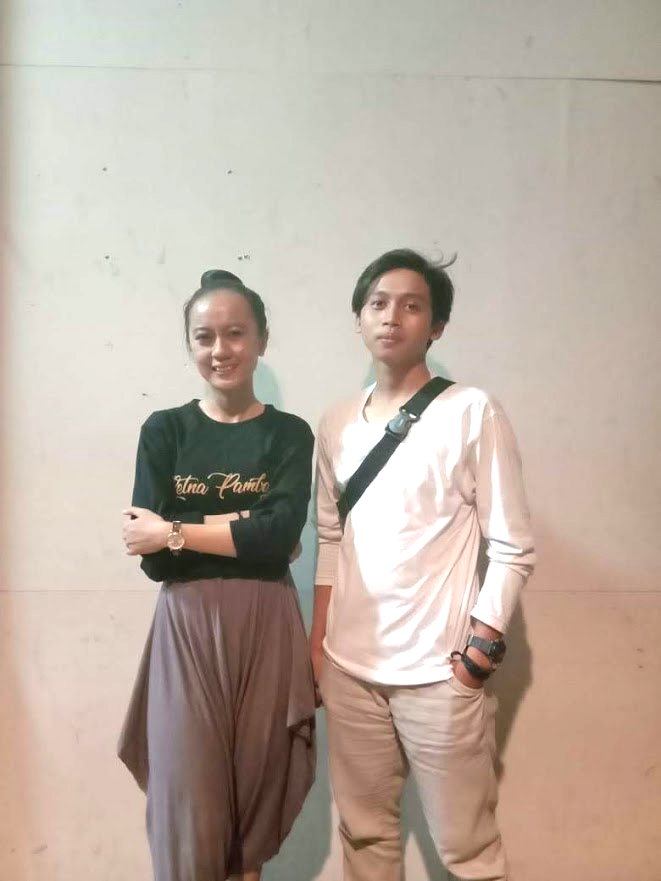
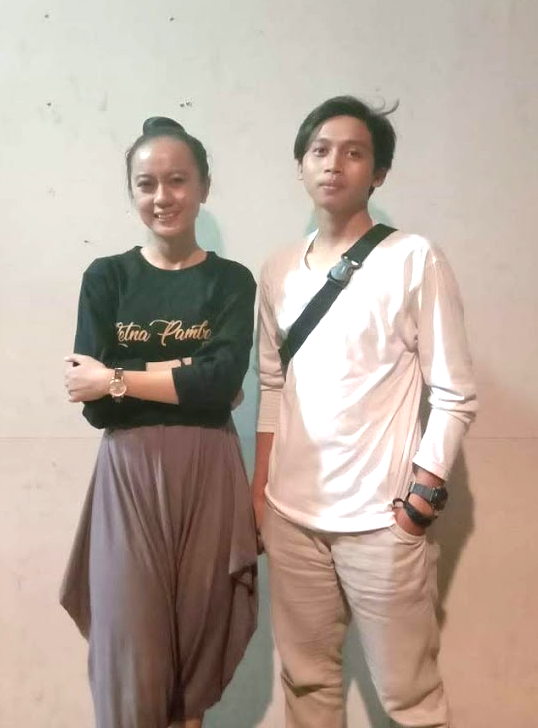
add foto

diff --git a/index copy.html b/index copy.html
@@ -1,0 +1,61 @@
+<!doctype html>
+<html lang="en">
+
+<head>
+  <!-- Required meta tags -->
+  <meta charset="utf-8">
+  <meta name="viewport" content="width=device-width, initial-scale=1, shrink-to-fit=no">
+
+  <!-- Bootstrap CSS -->
+  <link rel="stylesheet" href="https://stackpath.bootstrapcdn.com/bootstrap/4.4.1/css/bootstrap.min.css"
+    integrity="sha384-Vkoo8x4CGsO3+Hhxv8T/Q5PaXtkKtu6ug5TOeNV6gBiFeWPGFN9MuhOf23Q9Ifjh" crossorigin="anonymous">
+  <link href="https://fonts.googleapis.com/css2?family=Quicksand:wght@300;500;700&display=swap" rel="stylesheet">
+  <link rel="stylesheet" href="https://cdnjs.cloudflare.com/ajax/libs/animate.css/4.0.0/animate.min.css" />
+  <link rel="stylesheet" href="style.css">
+  <title>Happy Birthday Ulfa</title>
+  <link rel="shortcut icon" href="favicon.png">
+</head>
+
+<body>
+
+  <div class="bg">
+
+    <div>
+      <img src="Assets/foto.png" class="fotoku rounded-lg shadow">
+    </div>
+    <!-- Copyright -->
+
+
+
+    <footer class="page-footer font-small blue fixed-bottom">
+
+      <!-- Copyright -->
+
+
+
+      <div class="footer-copyright text-center py-3 text-secondary"><small> from Winarto <i
+            class="fas fa-gift text-danger animate__pulse animate__animated"></i> to
+          <a href="" class="text-decoration-none text-secondary">Ulfa</a></small>
+      </div>
+      <!-- Copyright -->
+
+    </footer>
+    <!-- Footer -->
+  </div>
+
+
+  <!-- Optional JavaScript -->
+  <!-- jQuery first, then Popper.js, then Bootstrap JS -->
+  <script src="https://code.jquery.com/jquery-3.4.1.slim.min.js"
+    integrity="sha384-J6qa4849blE2+poT4WnyKhv5vZF5SrPo0iEjwBvKU7imGFAV0wwj1yYfoRSJoZ+n" crossorigin="anonymous">
+  </script>
+  <script src="https://stackpath.bootstrapcdn.com/bootstrap/4.4.1/js/bootstrap.min.js"
+    integrity="sha384-wfSDF2E50Y2D1uUdj0O3uMBJnjuUD4Ih7YwaYd1iqfktj0Uod8GCExl3Og8ifwB6" crossorigin="anonymous">
+  </script>
+  <script src="https://kit.fontawesome.com/61e5120832.js" crossorigin="anonymous"></script>
+  <script src="https://cdn.jsdelivr.net/npm/typeit@7.0.4/dist/typeit.min.js"></script>
+
+  <script src="script.js"></script>
+</body>
+
+</html>

diff --git a/script.js b/script.js
@@ -88,7 +88,7 @@ const _slideTiga = function () {
 function getRandomPosition(element) {
   var x = document.body.offsetHeight - element.clientHeight;
   var y = document.body.offsetWidth - element.clientWidth;
-  var randomX = Math.floor(Math.random() * 500);
+  var randomX = Math.floor(Math.random() * 350);
   var randomY = Math.floor(Math.random() * y);
   return [randomX, randomY];
 };
@@ -159,7 +159,7 @@ new TypeIt("#teks1", {
 }).go();
 
 new TypeIt("#teks2", {
-  strings: ["Haii ulfaa!!", "Happy Birthday ya..", " ", "Alhamdulillah udah 23 tahun, semoga di umur yang sekarang kamu bisa jadi pribadi yang lebih baik lagi, lebih rajin, lebih sholehah, dan lebih berbakti.", "Maaf ya aku gabisa kasih surprise yang bagus. Cuma ini yang baru bisa aku kasih ke kamu, aku harap kamu suka ya :)", "Sekali lagi, Selamat Ulang Tahun ya. Semoga pelatihannya dilancarkan, semua impian, keinginan, dan harapan kamu bisa tercapai dan semoga bisa cepat ketemu, Aamiin."],
+   strings: ["Haii ulfaa!!", "Happy Birthday ya..", " ", "Alhamdulillah udah 23 tahun, semoga di umur yang sekarang kamu bisa jadi pribadi yang lebih baik lagi, lebih rajin, lebih sholehah, dan lebih berbakti.", "Maaf ya aku gabisa kasih surprise yang bagus. Cuma ini yang baru bisa aku kasih ke kamu, aku harap kamu suka ya :)", "Sekali lagi, Selamat Ulang Tahun ya. Semoga pelatihannya dilancarkan, semua impian, keinginan, dan harapan kamu bisa tercapai dan semoga bisa cepat ketemu, Aamiin."],
   startDelay: 2000,
   speed: 75,
   waitUntilVisible: true

diff --git a/index.html b/index.html
@@ -73,8 +73,8 @@
     </div>
     <p id="trims" class="text-muted d-none mt-2"></p>
 
-    <div id="slideEnam" class="d-none animate__animated animate__fadeIn animate__slower">
-      <img src="Assets/foto.png" class="foto rounded-lg shadow">
+    <div id="slideEnam" class="d-none animate__animated animate__fadeIn animate__slower img-center">
+      <img src="Assets/foto.png" class="fotoku rounded-lg shadow">
     </div>
 
     <p id="tap" class="d-none animate__animated animate__pulse text-muted animate__slow animate__repeat-3">Ketuk untuk
@@ -85,11 +85,10 @@
       <!-- Copyright -->
 
 
-      <br><br><br><br><br><br><br><br><br><br><br>
-      <div class="footer-copyright text-center py-3 text-secondary"><small> from Winarto
-          <i class="fas fa-gift text-danger animate__animated animate__bounce animate__repeat-3 hati"></i> to
-          <a target="_blank" class="text-decoration-none text-danger" id="credit"></a> Ulfa</small>
 
+      <div class="footer-copyright text-center py-3 text-secondary"><small> from Winarto <i
+            class="fas fa-gift text-danger animate__pulse animate__animated"></i> to
+          <a href="" class="text-decoration-none text-secondary">Ulfa</a></small>
       </div>
       <!-- Copyright -->
 

diff --git a/style.css b/style.css
@@ -1,7 +1,6 @@
-
 body,
 html {
-  height: 100%;  
+  height: 100%;
   font-family: 'Quicksand', sans-serif;
   text-align: center;
 }
@@ -12,11 +11,11 @@ html {
   background-position: center center;
   background-repeat: no-repeat;
   background-attachment: fixed;
-  
+
   /* This is what makes the background image rescale based
      on the container's size */
   background-size: cover;
-  
+
   /* Set a background color that will be displayed
      while the background image is loading */
   background-color: #FEC0CD;
@@ -50,6 +49,20 @@ html {
   /* vertical-align: middle;
   line-height: normal; */
 }
+
+.fotoku {
+  width: 80%;
+  max-width: 400px;
+  min-width: 300px;
+  margin-top: 10px;
+  /* margin-left: auto;
+  margin-right: auto;
+  margin-bottom: 20px; */
+  display: inline-block;
+  /* vertical-align: middle;
+  line-height: normal; */
+}
+
 
 
 
